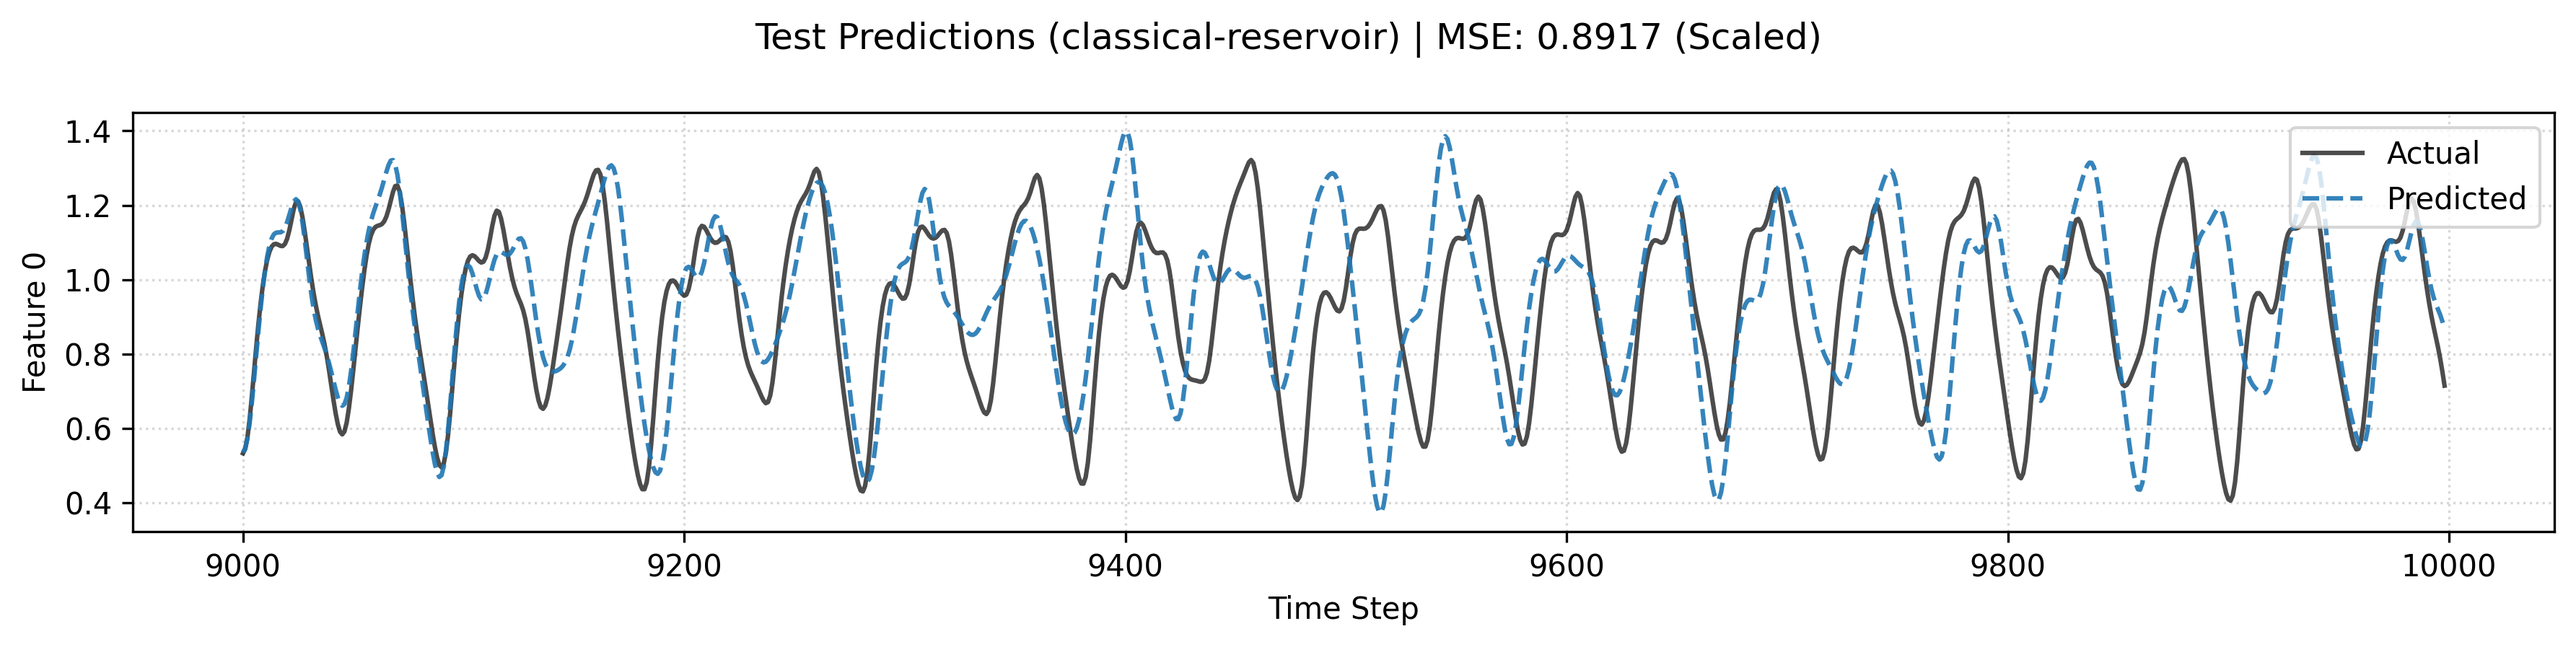
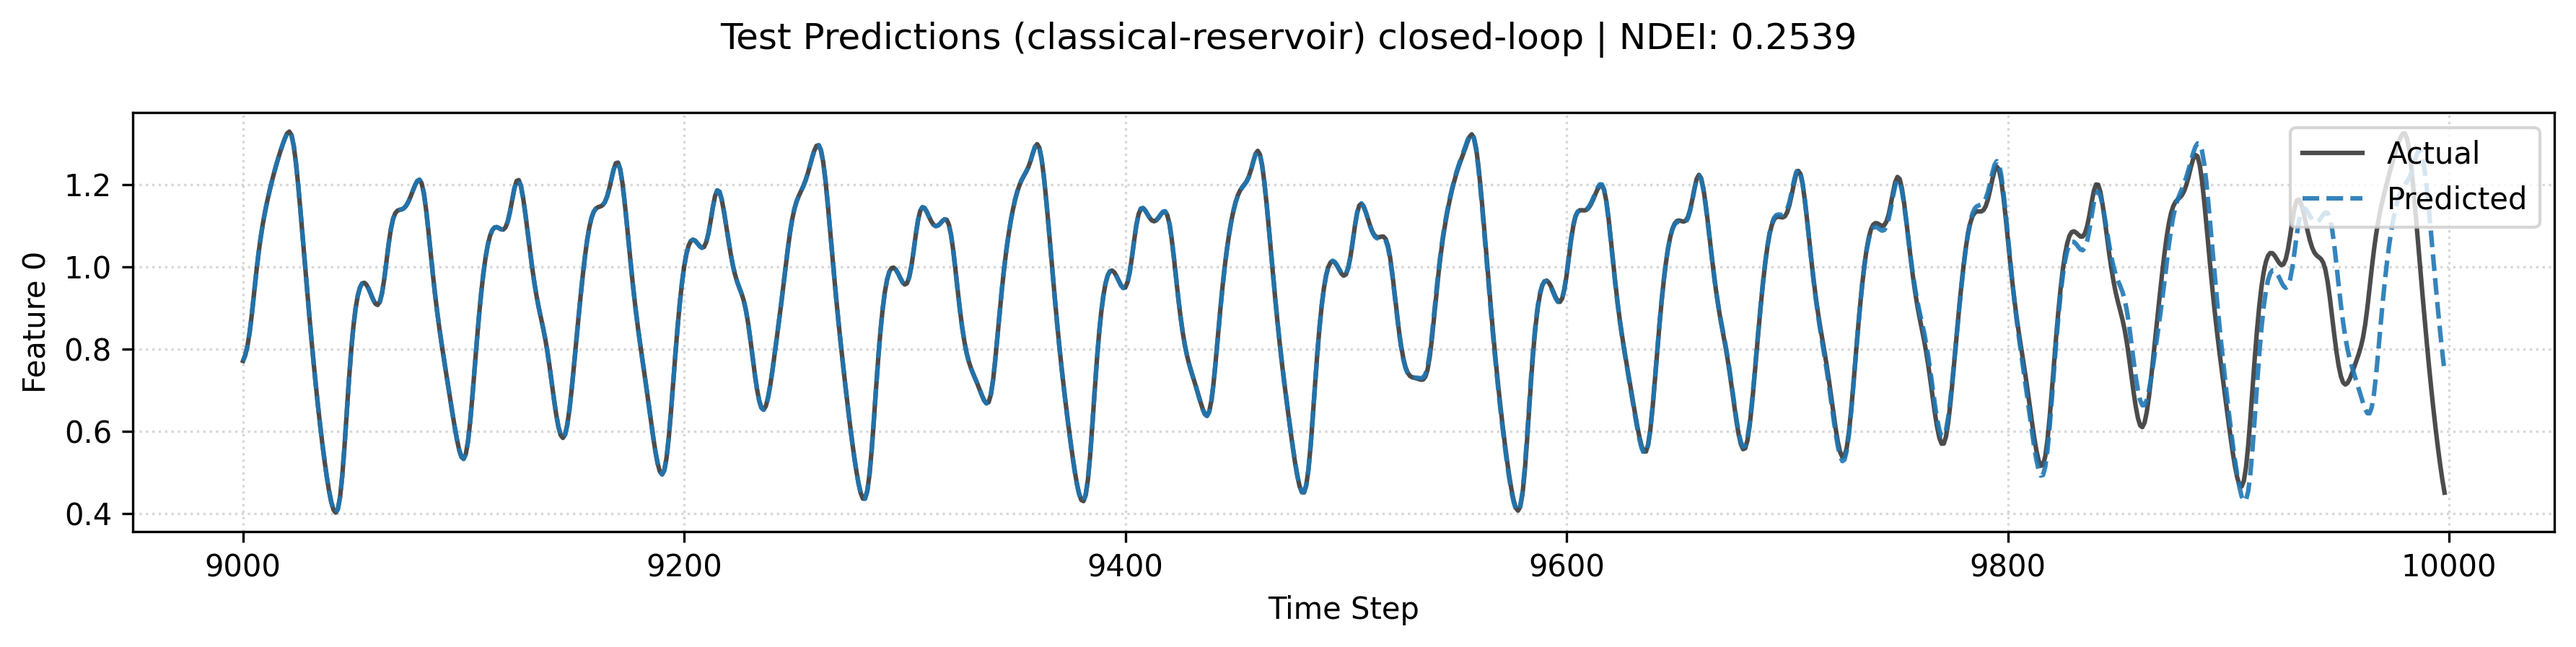
renewed mackey

diff --git a/src/reservoir/utils/reporting.py b/src/reservoir/utils/reporting.py
@@ -381,6 +381,7 @@ def generate_report(
         # 現状は簡易的に予測値を渡すだけにしていますが、
         # plot_regression_report も同様に修正すれば高速化できます
         test_pred_cached = precalc_preds.get("test_pred")
+        is_closed_loop = results.get("is_closed_loop", False)
 
         plot_regression_report(
              runner=runner,
@@ -395,6 +396,7 @@ def generate_report(
              precalc_test_pred=test_pred_cached, 
              preprocessors=preprocessors,
              scaler=scaler,
+             is_closed_loop=is_closed_loop,
          )
          
 
@@ -414,6 +416,7 @@ def plot_regression_report(
     precalc_test_pred: Optional[Any] = None, 
     preprocessors: Optional[list[Any]] = None,
     scaler: Optional[Any] = None,
+    is_closed_loop: bool = False,
 ) -> None:
     try:
         from reservoir.utils.plotting import plot_timeseries_comparison
@@ -492,6 +495,8 @@ def plot_regression_report(
     test_y = test_y_plot
 
     title_str = f"Test Predictions ({model_type_str})"
+    if is_closed_loop:
+        title_str = f"{title_str} closed-loop"
     
     # Calculate NDEI if possible
     ndei = None

diff --git a/src/reservoir/pipelines/generic_runner.py b/src/reservoir/pipelines/generic_runner.py
@@ -349,6 +349,7 @@ class UniversalPipeline:
         # --- Construct Results ---
 
         test_score = 0.0
+        results = {}
         if closed_loop_pred_val is not None and closed_loop_truth_val is not None:
             print("\n    [Runner] Overwriting Test Output with Closed-Loop result.")
             test_pred = closed_loop_pred_val
@@ -357,10 +358,10 @@ class UniversalPipeline:
                 # Use centralized score
                 test_score = compute_score(test_pred, test_y, self.metric_name)
                 print(f"    [Runner] Closed-Loop MSE: {test_score:.5f}")
+            results["is_closed_loop"] = True
         elif test_pred is None:
              print("    [Runner] Warning: No Test predictions available.")
 
-        results = {}
         results["train"] = {
             "best_lambda": best_lambda,
             "search_history": search_history,

diff --git a/src/reservoir/models/presets.py b/src/reservoir/models/presets.py
@@ -81,7 +81,7 @@ TIME_CLASSICAL_RESERVOIR_PRESET = PipelineConfig(
         poly_degree=1,
     ),
     projection=ProjectionConfig(
-        n_units=100,
+        n_units=1000,
         input_scale=0.2,
         input_connectivity=1.0,
         bias_scale=0.1,
